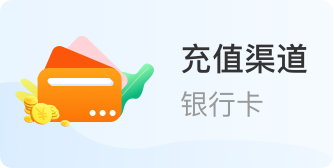
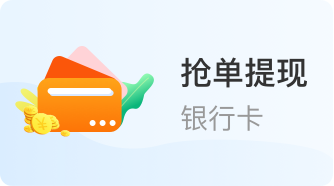
银行卡修改

diff --git a/lib/l10n/WalletLocalizations.dart b/lib/l10n/WalletLocalizations.dart
@@ -44,7 +44,7 @@ class WalletLocalizations {
       'homePage': '首页',
       'homePageManual': '入门手册',
       'homePageManualFlow': '使用流程',
-      'homePageManualChannel': '收款渠道',
+      'homePageManualChannel': '抢单渠道',
       'homePageManualRecharge': '充值提现',
       'homePageManualSpeedy': '便捷抢单',
       'homePageManualFlows': '抢单流程',
@@ -165,6 +165,9 @@ class WalletLocalizations {
       'order_order_success': '订单成功数',
       'order_order_fail': '订单异常数',
       'order_order_successRate': '订单确认成功率',
+    'order_add_success': '银行卡添加成功',
+
+
     },
     'en': {
       'userInfoPageButton': 'Quit current identity',
@@ -329,6 +332,8 @@ class WalletLocalizations {
       'order_order_success': 'Success',
       'order_order_fail': 'Fail',
       'order_order_successRate': 'SuccessRate',
+      'order_add_success': 'Success',
+
     }
   };
 
@@ -767,6 +772,9 @@ class WalletLocalizations {
 
   get order_order_successRate =>
       _localizedValues[locale.languageCode]['order_order_successRate'];
+  get order_add_success =>
+      _localizedValues[locale.languageCode]['order_add_success'];
+
 
   static WalletLocalizations of(BuildContext context) {
     return Localizations.of(context, WalletLocalizations);

diff --git a/lib/view/main_view/grab_orders/order_withdraw.dart b/lib/view/main_view/grab_orders/order_withdraw.dart
@@ -56,7 +56,7 @@ class _OrderWithdrawState extends State<OrderWithdraw> {
                   children: <Widget>[
                     _withdrawInfo(),
                     _amountInput(),
-                    myCardView(),
+//                    myCardView(),
                     submitView()
                   ],
                 ),
@@ -257,9 +257,9 @@ class _OrderWithdrawState extends State<OrderWithdraw> {
         NetConfig.withDraw,
         {
           'withdrawCoin': controllerAmount.text,
-          'payee': controllerName.text,
-          'bankNumber': controllerCard.text,
-          'bankName': controllerBank.text
+//          'payee': controllerName.text,
+//          'bankNumber': controllerCard.text,
+//          'bankName': controllerBank.text
         },
         timeOut: 10, errorCallback: (msg) {
       Tools.showToast(_scaffoldKey, msg);

diff --git a/lib/view/main_view/home/home_card_list.dart b/lib/view/main_view/home/home_card_list.dart
@@ -109,7 +109,7 @@ class _HomeCardListState extends State<HomeCardList> {
                     BoxDecoration(color: Color.fromRGBO(246, 246, 246, 1)),
                 child: InkWell(
                   onTap: () {
-                    this.onClickItem(index);
+//                    this.onClickItem(index);
                   },
                   child: Card(
                     shape: RoundedRectangleBorder(

diff --git a/lib/view/main_view/home/home_page.dart b/lib/view/main_view/home/home_page.dart
@@ -80,7 +80,7 @@ class _HomePageState extends State<HomePage> {
     return InkWell(
       onTap: () {
         if (tag == 0) {
-          Navigator.of(context).pushNamed(OrderRecharge.tag);
+          Navigator.of(context).pushNamed(HomePageCard.tag);
         } else if (tag == 1) {
           Navigator.of(context).pushNamed(HomePageAgent.tag);
         } else if (tag == 2) {

diff --git a/lib/view/main_view/home/home_add_card.dart b/lib/view/main_view/home/home_add_card.dart
@@ -122,6 +122,7 @@ class _HomeAddCardState extends State<HomeAddCard> {
 
         result.then((data) {
           if (NetConfig.checkData(data)) {
+            Tools.showToast(_scaffoldKey,WalletLocalizations.of(context).order_add_success);
             canToucn = true;
             Navigator.pop(context);
             Navigator.pop(context,true);
